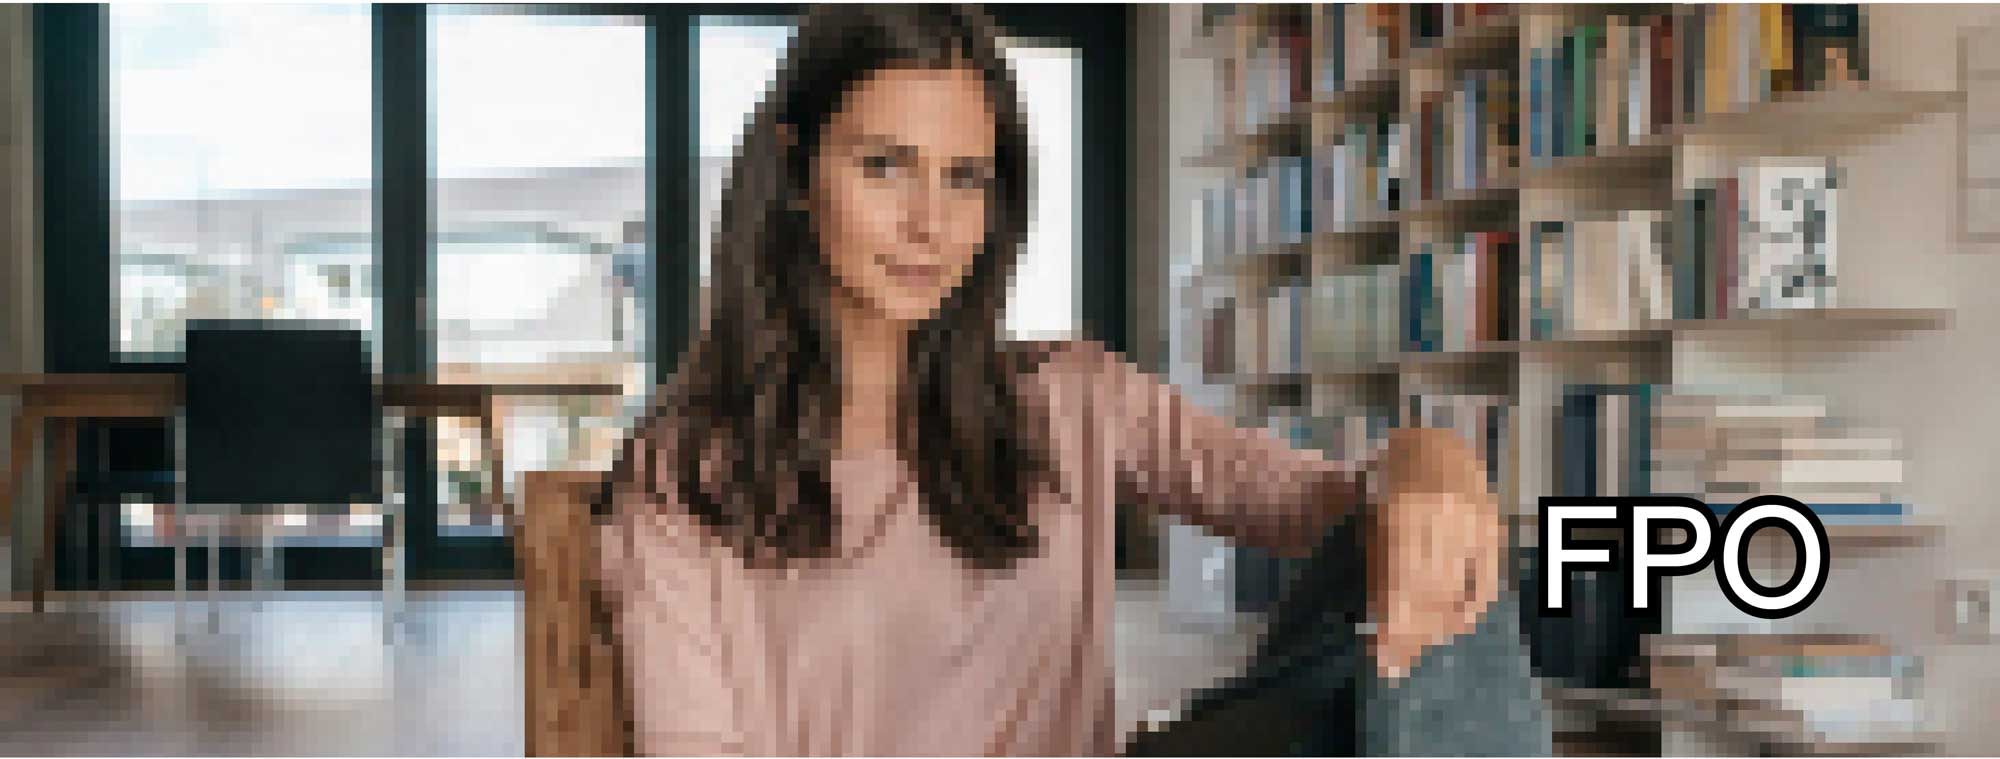
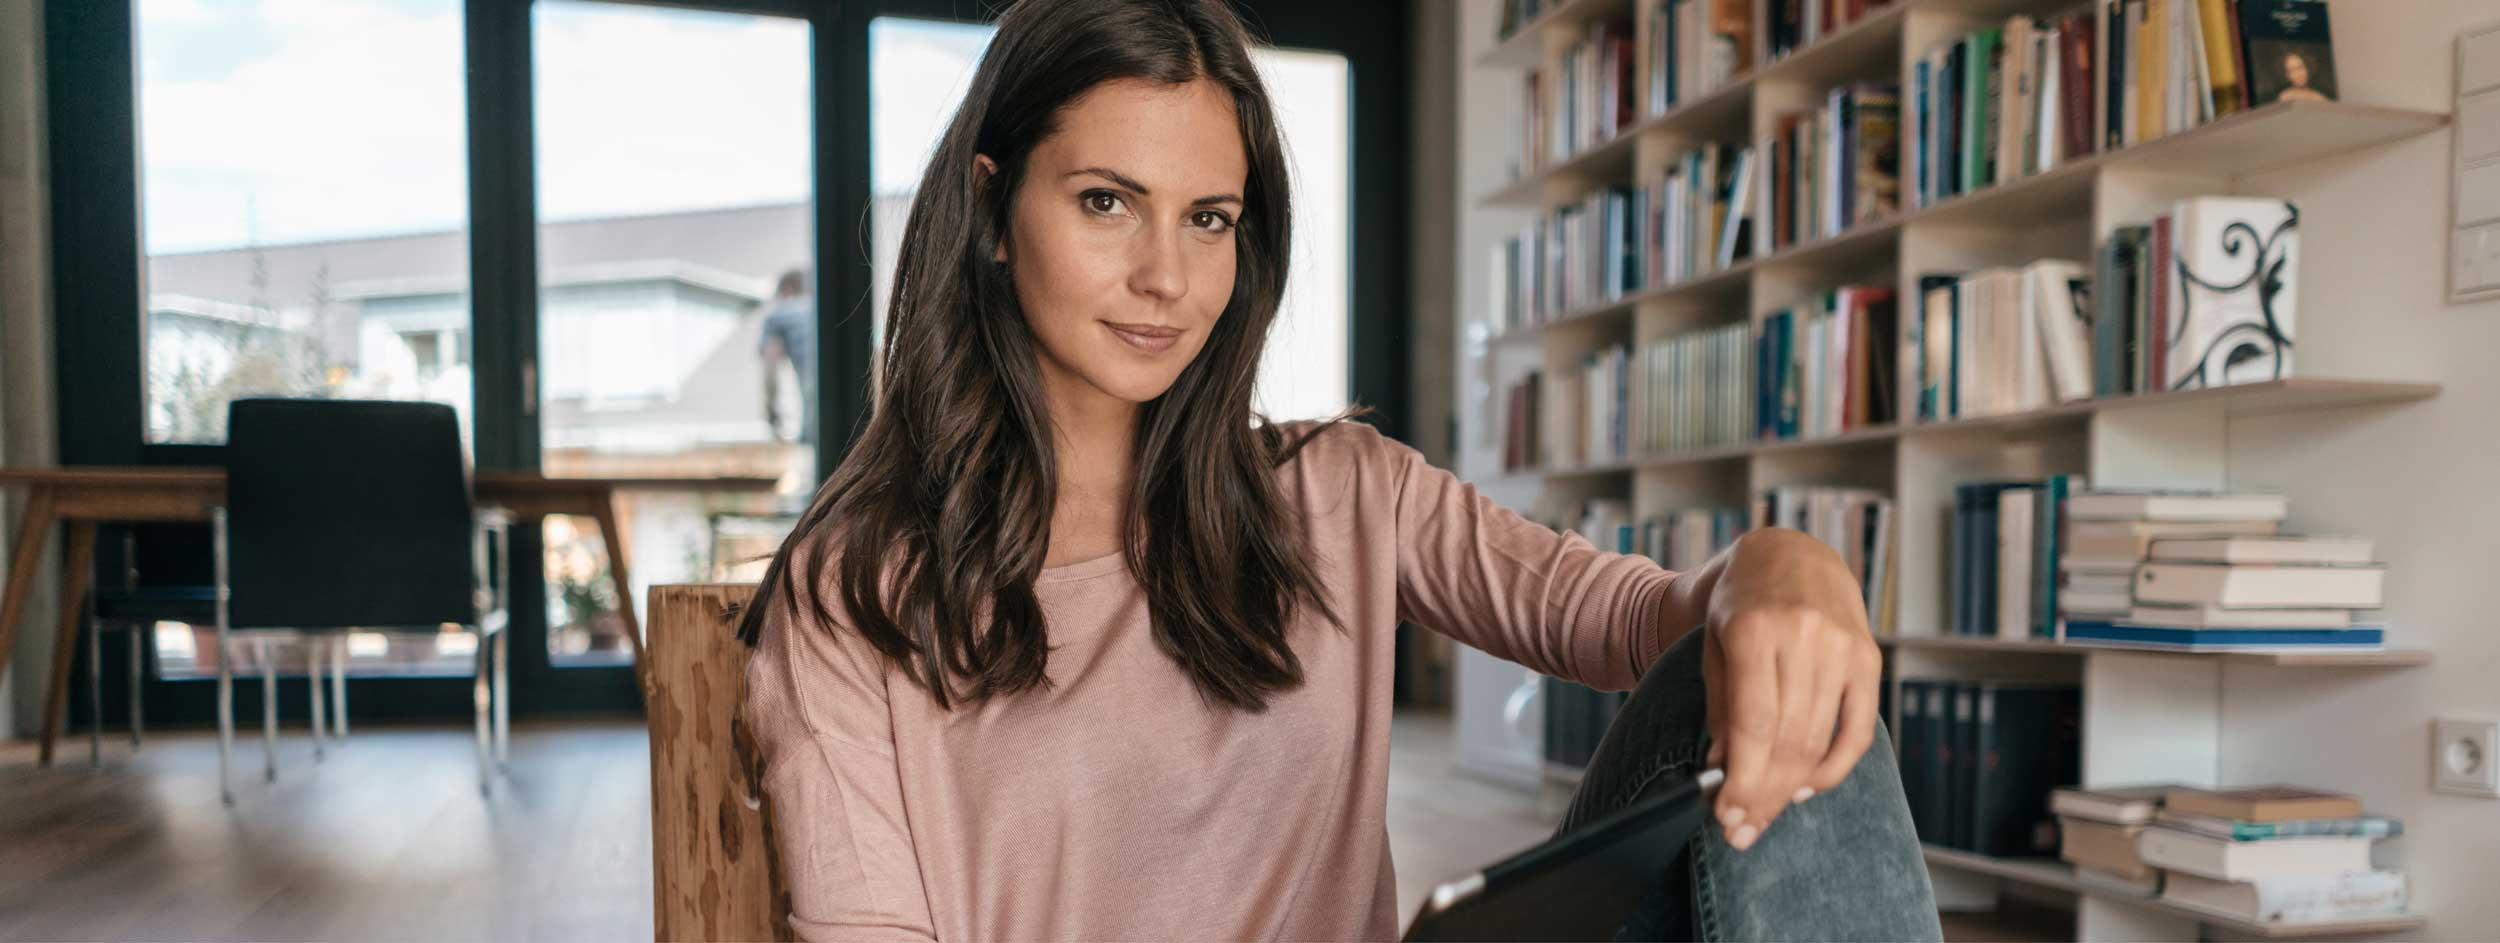
pages

diff --git a/web/app/themes/sientra-theme/resources/views/partials/content-page-augmentation-home.blade.php b/web/app/themes/sientra-theme/resources/views/partials/content-page-augmentation-home.blade.php
@@ -142,6 +142,26 @@ with my results <span class="q">&#8221;</span><br><span class="sig">- RealSelf M
 	</div>
 </section>
 
+<video
+    id="my-player"
+    class="video-js"
+    controls
+    preload="auto"
+    poster="//vjs.zencdn.net/v/oceans.png"
+    data-setup='{}'>
+  <source src="//vjs.zencdn.net/v/oceans.mp4" type="video/mp4"></source>
+  <source src="//vjs.zencdn.net/v/oceans.webm" type="video/webm"></source>
+  <source src="//vjs.zencdn.net/v/oceans.ogv" type="video/ogg"></source>
+  <p class="vjs-no-js">
+    To view this video please enable JavaScript, and consider upgrading to a
+    web browser that
+    <a href="https://videojs.com/html5-video-support/" target="_blank">
+      supports HTML5 video
+    </a>
+  </p>
+</video>
+
+
 <section class="row realself text-center">
   <div class="container-fluid wrap px-0 px-lg-3">  	
   	

diff --git a/web/app/themes/sientra-theme/resources/views/partials/content-page-reconstruction-home.blade.php b/web/app/themes/sientra-theme/resources/views/partials/content-page-reconstruction-home.blade.php
@@ -60,7 +60,7 @@
   <div class="wrap px-0 pl-lg-3">  	
   	
   	<div class="col-12 col-lg-5 model text-left px-0 pl-lg-3">
-      <img src="@asset('images/timing-fpo.png')" alt="timing-fpo" width="708" height="834" />
+      <img src="@asset('images/timing.png')" alt="timing" width="708" height="834" />
   	</div>
 
   	<div class="col-12 col-lg-8 message">
